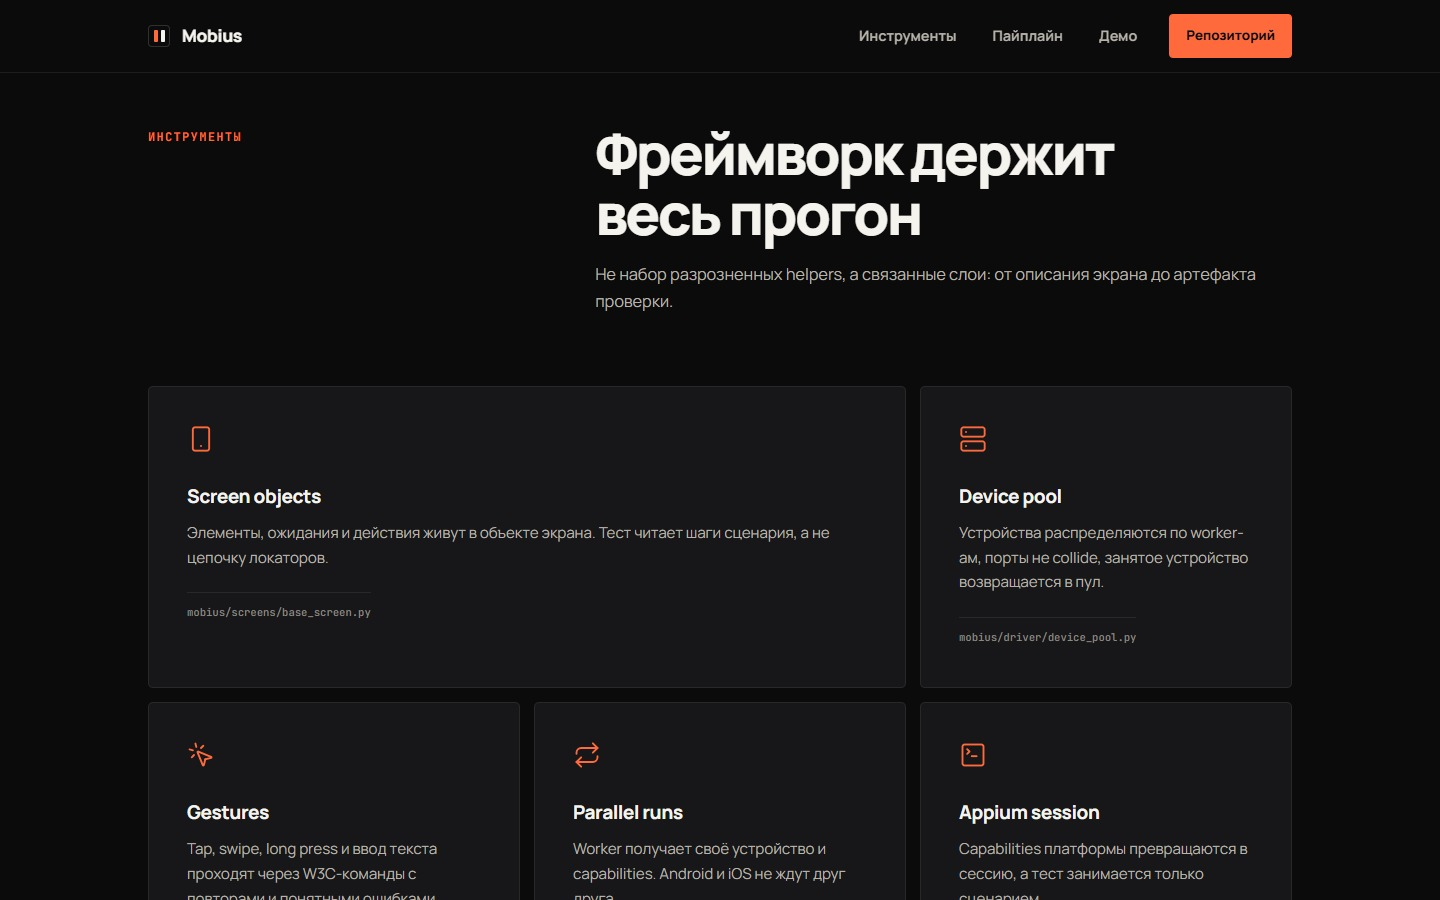
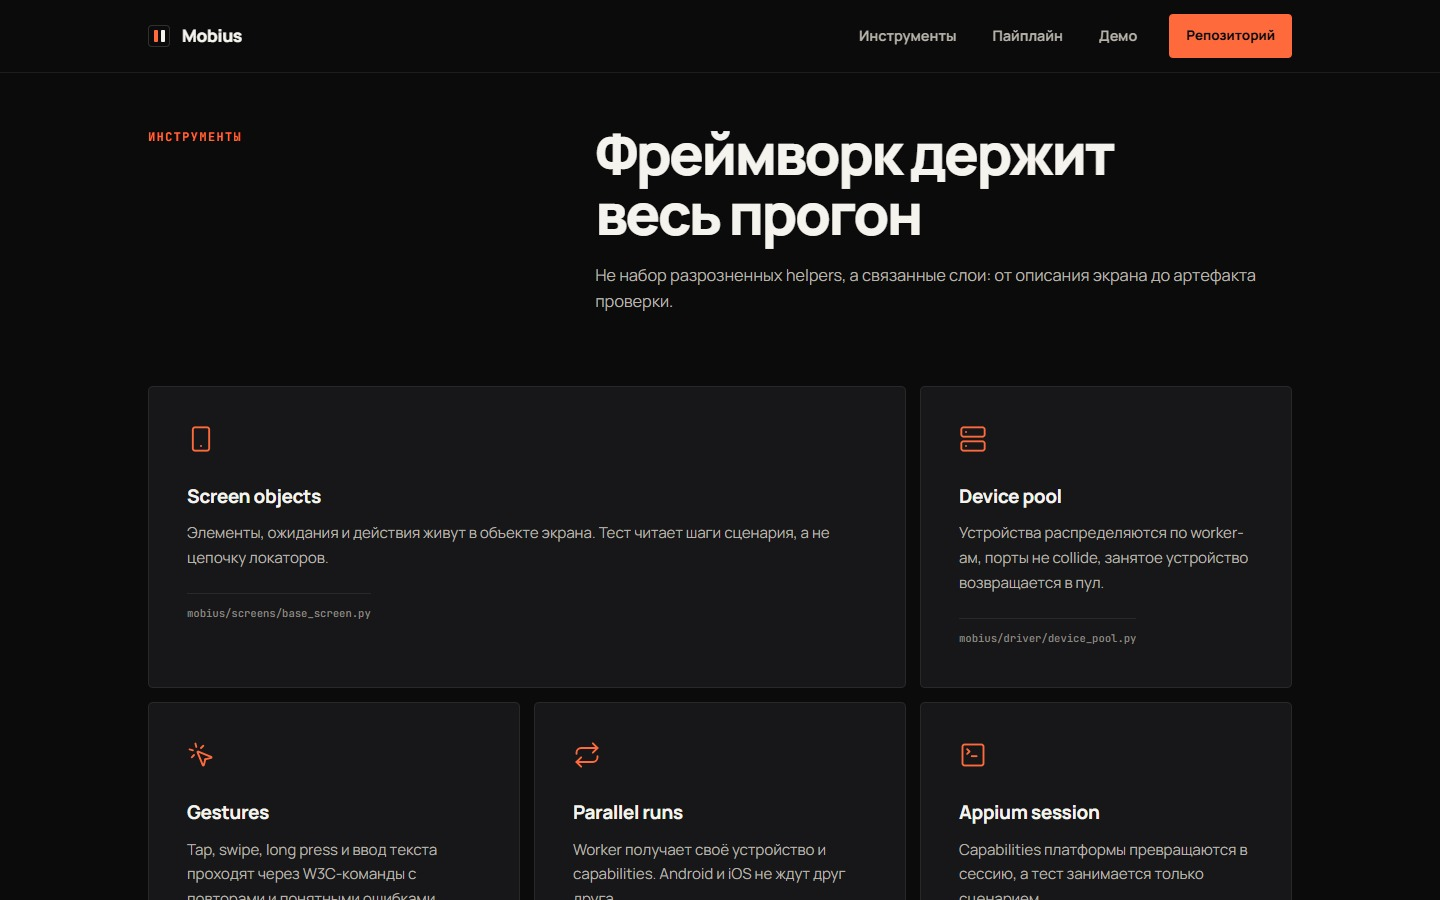
fix: balance the hero grid and mobile runboard

diff --git a/docs/index.html b/docs/index.html
@@ -100,10 +100,11 @@ html.lenis{height:auto}
 .btn-row{display:flex;gap:12px;flex-wrap:wrap;align-items:center}
 
 .hero{padding-block:clamp(64px,8vw,112px) clamp(56px,7vw,96px);border-bottom:1px solid var(--line-soft)}
-.hero-in{display:grid;grid-template-columns:minmax(0,1.04fr) minmax(0,.96fr);gap:clamp(40px,6vw,88px);align-items:center}
+.hero-in{display:grid;grid-template-columns:minmax(0,1.2fr) minmax(0,.8fr);gap:clamp(40px,6vw,88px);align-items:center}
+.hero-copy{min-width:0}
 .eyebrow{display:flex;align-items:center;gap:12px;font:650 .74rem/1 var(--mono);letter-spacing:.12em;text-transform:uppercase;color:var(--accent);margin-bottom:26px}
 .eyebrow::before{content:'';width:28px;height:2px;background:currentColor}
-h1{font-size:clamp(2.8rem,6.1vw,6.2rem);line-height:.96;letter-spacing:-.055em;font-weight:800;text-wrap:balance}
+h1{font-size:clamp(2.4rem,5vw,4.25rem);line-height:.96;letter-spacing:-.055em;font-weight:800;text-wrap:balance}
 h1 .h1-line{display:block}
 h1 .h1-mark{color:var(--accent)}
 .hero-lead{margin-top:28px;font-size:clamp(1rem,1.35vw,1.16rem);color:var(--muted);max-width:36em;line-height:1.68}
@@ -146,6 +147,10 @@ h2{font-size:clamp(2rem,4vw,4rem);line-height:1.04;letter-spacing:-.045em;font-w
 .fcard{position:relative;grid-column:span 4;padding:clamp(24px,3vw,38px);background:var(--panel);border:1px solid var(--line-soft);border-radius:5px;transition:transform .2s ease,border-color .2s ease,background .2s ease}
 .fcard:nth-child(1),.fcard:nth-child(6){grid-column:span 8}
 .fcard:nth-child(2),.fcard:nth-child(5){grid-column:span 4}
+.fcard:nth-child(6){grid-column:span 12;display:grid;grid-template-columns:auto minmax(0,1fr) auto;column-gap:28px;align-items:start}
+.fcard:nth-child(6) svg{grid-row:1/3;margin:0}
+.fcard:nth-child(6) p{grid-column:2}
+.fcard:nth-child(6) .file-tag{grid-column:3;grid-row:1/3;align-self:center;margin:0;padding:0;border-top:0}
 .fcard:hover{transform:translateY(-3px);border-color:var(--line);background:var(--panel2)}
 .fcard svg{width:28px;height:28px;color:var(--accent);margin-bottom:28px}
 .fcard h3{font-size:1.18rem;font-weight:750;letter-spacing:-.02em;margin-bottom:10px}
@@ -200,7 +205,7 @@ footer{border-top:1px solid var(--line-soft)}
 .foot-links a{display:inline-flex;align-items:center;min-height:44px;color:var(--muted);transition:color .18s ease}
 .foot-links a:hover{color:var(--fg)}
 
-@media (max-width:1020px){
+@media (max-width:1100px){
 .hero-in{grid-template-columns:1fr}
 .runboard{max-width:760px}
 .sec-head{grid-template-columns:1fr}
@@ -209,6 +214,9 @@ footer{border-top:1px solid var(--line-soft)}
 }
 @media (max-width:960px){
 .fcard,.fcard:nth-child(1),.fcard:nth-child(2),.fcard:nth-child(5),.fcard:nth-child(6){grid-column:span 6}
+.fcard:nth-child(6){display:block}
+.fcard:nth-child(6) svg{margin-bottom:18px}
+.fcard:nth-child(6) .file-tag{margin-top:22px;padding-top:12px;border-top:1px solid var(--line-soft)}
 .proc-grid{grid-template-columns:1fr;gap:0}
 .proc-track{display:none}
 .step{padding:24px 0;border-top:1px solid var(--line-soft)}
@@ -227,6 +235,10 @@ footer{border-top:1px solid var(--line-soft)}
 .run-foot{flex-direction:column}
 }
 @media (max-width:640px){
+h1{font-size:clamp(1.9rem,9.5vw,3.1rem)}
+.eyebrow{font-size:.66rem;letter-spacing:.08em;gap:8px}
+.eyebrow-long{display:none}
+.run-command{white-space:normal;overflow:visible}
 .fcard,.fcard:nth-child(1),.fcard:nth-child(2),.fcard:nth-child(5),.fcard:nth-child(6){grid-column:1/-1}
 .btn{width:100%}
 .btn-sm{width:auto}
@@ -255,7 +267,8 @@ footer{border-top:1px solid var(--line-soft)}
 <main id="main">
 <section class="hero">
 <div class="wrap hero-in">
-<div class="eyebrow" data-hero>Mobile automation / Python + Appium</div>
+<div class="hero-copy">
+<div class="eyebrow" data-hero><span class="eyebrow-long">Mobile automation / </span>Python + Appium</div>
 <h1 data-hero>
 <span class="h1-line">Один сценарий.</span>
 <span class="h1-line">Два устройства.</span>
@@ -267,15 +280,16 @@ footer{border-top:1px solid var(--line-soft)}
 <a class="btn btn-ghost" href="#demo">Посмотреть демо</a>
 </div>
 <p class="hero-note">Без внешних CDN. Локальные шрифты, motion и понятная отказоустойчивость.</p>
+</div>
 
 <div class="runboard" data-hero aria-label="Пример узлов из CI-выборки Mobius">
 <div class="run-head"><span class="run-title"><i aria-hidden="true"></i>CI selection</span><span class="run-mode">pytest / collect-only</span></div>
 <div class="run-command"><b>$</b> pytest tests/unit/ tests/api/ -m "unit or api"</div>
 <div class="run-list">
-<div class="runrow"><div><div class="run-file">tests/unit/test_device_pool.py</div><div class="run-test">test_no_collisions_with_many_devices</div></div><span class="run-tag">UNIT</span></div>
-<div class="runrow"><div><div class="run-file">tests/unit/test_device_pool.py</div><div class="run-test">test_different_workers_get_different_devices</div></div><span class="run-tag">UNIT</span></div>
+<div class="runrow"><div><div class="run-file">tests/unit/test_device_pool.py</div><div class="run-test">test_register_returns_device</div></div><span class="run-tag">UNIT</span></div>
+<div class="runrow"><div><div class="run-file">tests/unit/test_device_pool.py</div><div class="run-test">test_len_reflects_registered_count</div></div><span class="run-tag">UNIT</span></div>
 <div class="runrow"><div><div class="run-file">tests/unit/test_capabilities.py</div><div class="run-test">test_ios_bundle</div></div><span class="run-tag">UNIT</span></div>
-<div class="runrow"><div><div class="run-file">tests/unit/test_gestures.py</div><div class="run-test">test_swipe_to_element_succeeds_after_retries</div></div><span class="run-tag">UNIT</span></div>
+<div class="runrow"><div><div class="run-file">tests/unit/test_gestures.py</div><div class="run-test">test_direction</div></div><span class="run-tag">UNIT</span></div>
 </div>
 <div class="run-foot"><span>Реальные test node IDs из репозитория</span><b>Android + iOS</b></div>
 </div>

diff --git a/tests/unit/test_landing_cls.py b/tests/unit/test_landing_cls.py
@@ -136,6 +136,6 @@ def test_landing_is_not_blank_under_throttle() -> None:
     assert state["heroVisible"], "хиро остался невидимым через 6 с — страница «не дёргается», потому что пуста"
     assert state["gsap"], "движки не дошли до страницы под троттлингом"
     assert state["faces"] == 4, f"загружено начертаний {state['faces']}, ожидалось 4"
-    assert state["scrollH"] == 5488, (
-        f"высота документа {state['scrollH']} != 5488 — геометрия принятой витрины изменилась"
+    assert state["scrollH"] == 4602, (
+        f"высота документа {state['scrollH']} != 4602 — геометрия принятой витрины изменилась"
     )

diff --git a/tests/unit/test_landing_facts.py b/tests/unit/test_landing_facts.py
@@ -106,11 +106,11 @@ def test_coverage_claim_is_code_and_labelled_as_code(html: str) -> None:
 def test_runboard_uses_real_ci_test_nodes(html: str) -> None:
     nodes = {
         "tests/unit/test_device_pool.py": [
-            "test_no_collisions_with_many_devices",
-            "test_different_workers_get_different_devices",
+            "test_register_returns_device",
+            "test_len_reflects_registered_count",
         ],
         "tests/unit/test_capabilities.py": ["test_ios_bundle"],
-        "tests/unit/test_gestures.py": ["test_swipe_to_element_succeeds_after_retries"],
+        "tests/unit/test_gestures.py": ["test_direction"],
     }
     for path, names in nodes.items():
         source = (ROOT / path).read_text(encoding="utf-8")

diff --git a/tests/unit/test_landing_resilience.py b/tests/unit/test_landing_resilience.py
@@ -144,8 +144,8 @@ def test_page_is_readable_without_a_vendor_bundle(name: str) -> None:
         f"{name}: {hidden['count']} элементов остались погашенными, примеры {hidden['sample']}. "
         f"Класс .anim снят: {not state['anim']}"
     )
-    assert state["scrollH"] == 5488, (
-        f"{name}: высота документа {state['scrollH']} != 5488 — без бандла геометрия поехала"
+    assert state["scrollH"] == 4602, (
+        f"{name}: высота документа {state['scrollH']} != 4602 — без бандла геометрия поехала"
     )
 
 
